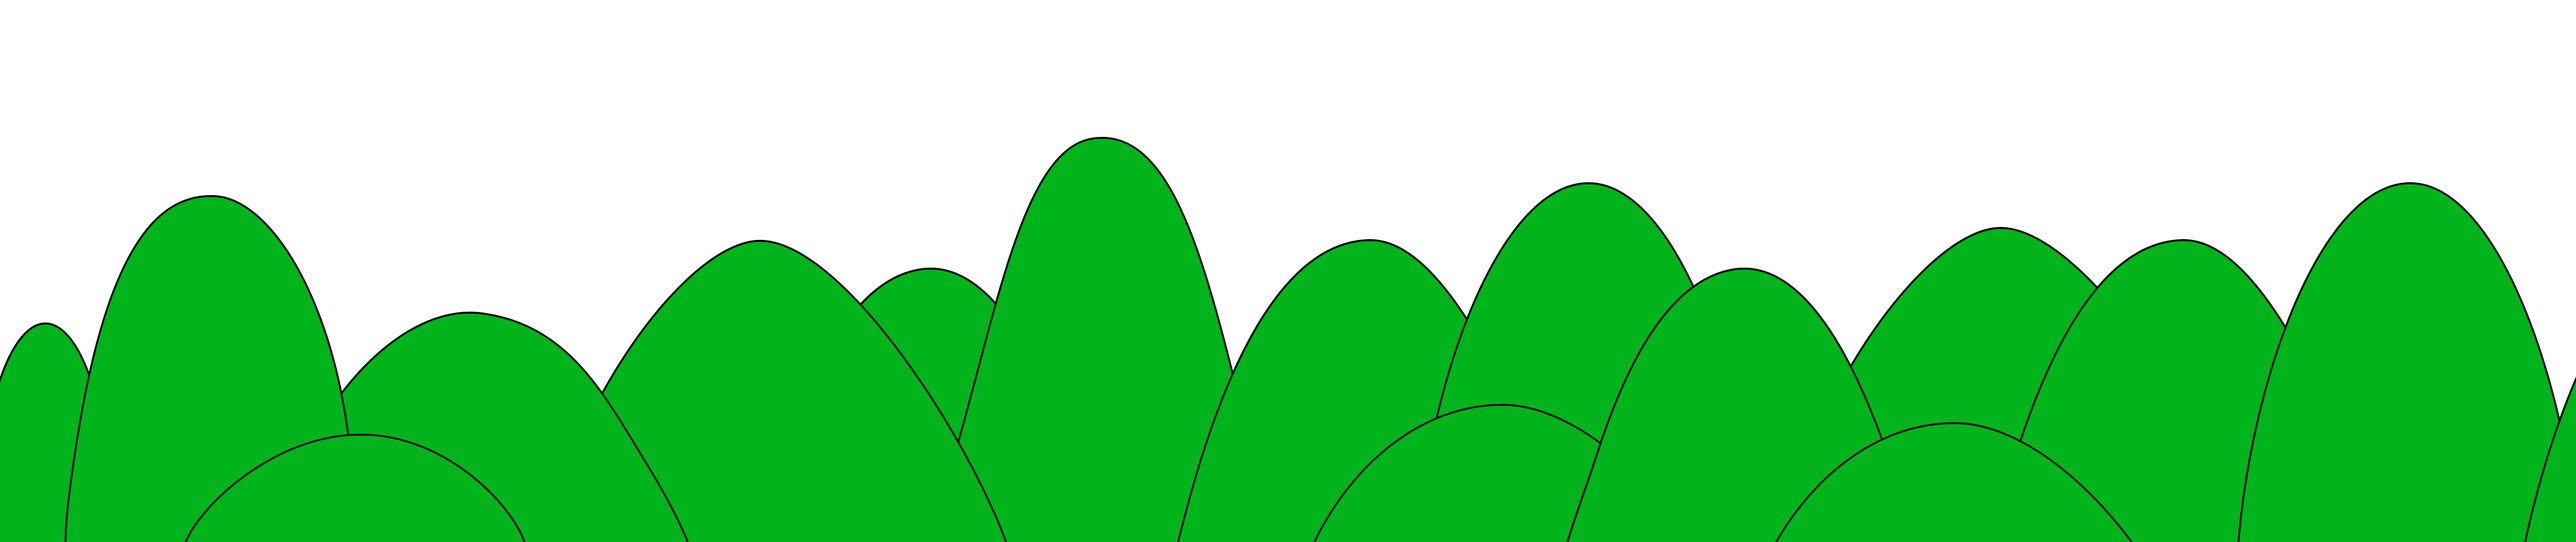
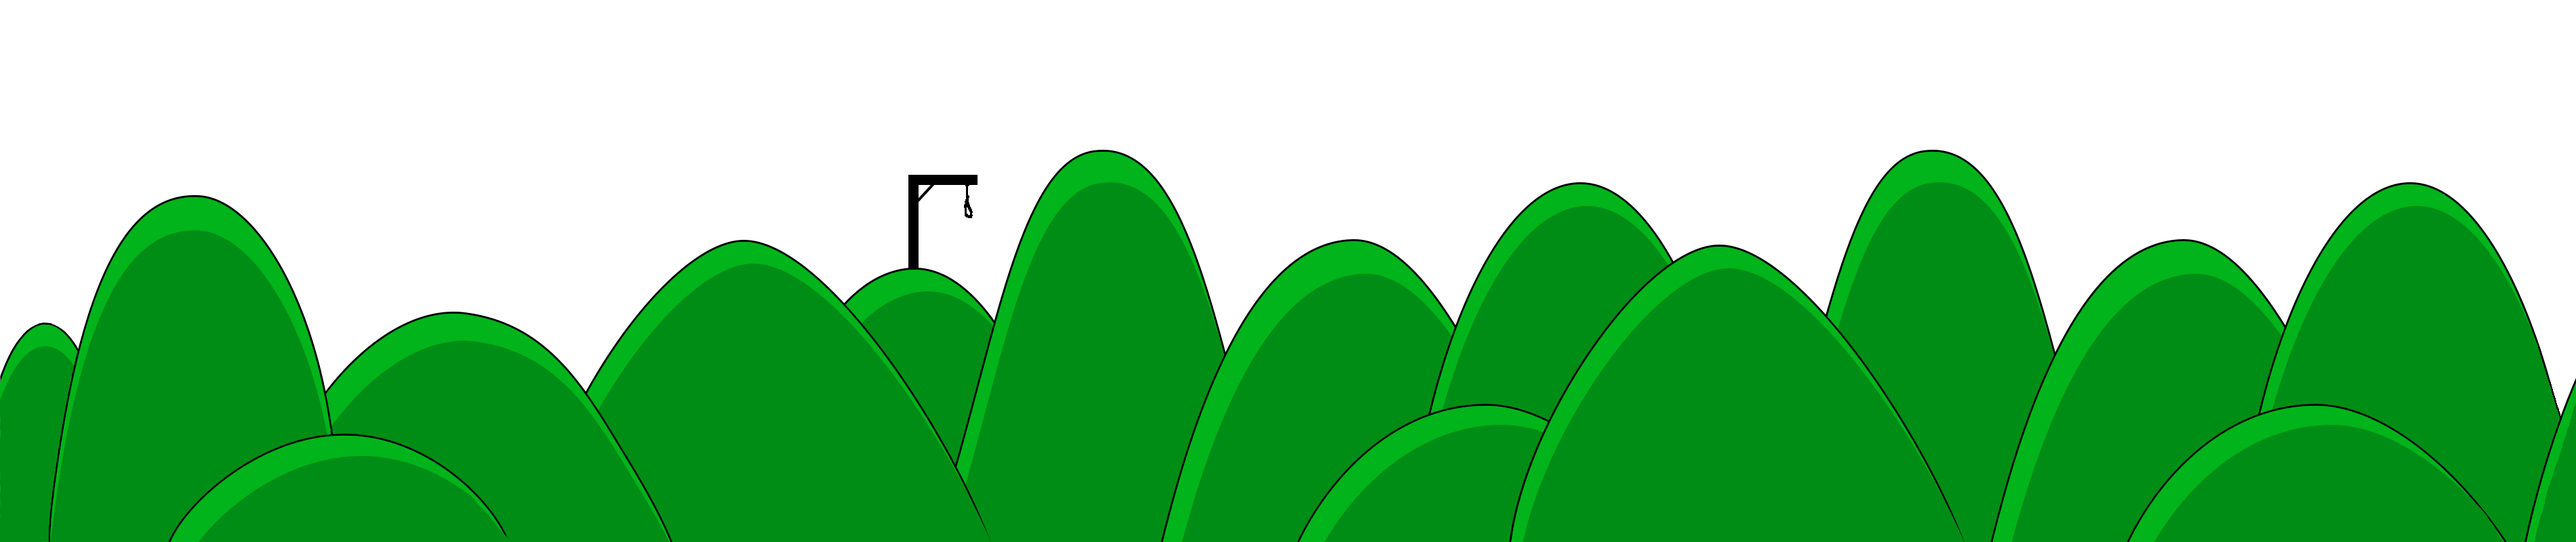
Nya texturer och färger
Vi har testat lite nya texturer och färger, de är uppe för diskussion så
säg vad ni tycker. /Fabian, André, Martin S.

diff --git a/Hänga Gubbe/Hänga Gubbe/TextureManager.cs b/Hänga Gubbe/Hänga Gubbe/TextureManager.cs
@@ -12,7 +12,7 @@ namespace Hänga_Gubbe
     class TextureManager
     {
         public static Texture2D buttonTex, hillTex, cloudTex, buttonTex4x1;
-        public static Texture2D hangmanTex, titelTex;
+        public static Texture2D hangmanTex, titelTex, keyBackGround;
         public static SpriteFont font, fontStor;
         public TextureManager(ContentManager Content)
         {
@@ -20,8 +20,9 @@ namespace Hänga_Gubbe
             buttonTex4x1 = Content.Load<Texture2D>("Button4x1");
             hangmanTex = Content.Load<Texture2D>("hangman");
             hillTex = Content.Load<Texture2D>("Kullar");
-            cloudTex = Content.Load<Texture2D>("Moln");
+            cloudTex = Content.Load<Texture2D>("MolnV3");
             titelTex = Content.Load<Texture2D>("TitelTest2");
+            keyBackGround = Content.Load<Texture2D>("Bakgrund2");
 
             font = Content.Load<SpriteFont>("sffontbmp36");
             fontStor = Content.Load<SpriteFont>("sffontbmpStor");

diff --git a/Hänga Gubbe/Hänga Gubbe/Game1.cs b/Hänga Gubbe/Hänga Gubbe/Game1.cs
@@ -126,7 +126,7 @@ namespace Hänga_Gubbe
             var vHeight = 1080;
             var scale = Matrix.CreateScale((float)GraphicsDevice.Viewport.Width / vWidth, (float)GraphicsDevice.Viewport.Height / vHeight, 1f);
             //Matrix.CreateScale((float)GraphicsDevice.Viewport.Width / vWidth, (float)GraphicsDevice.Viewport.Height / vHeight, 1f)
-            GraphicsDevice.Clear(Color.CornflowerBlue);
+            GraphicsDevice.Clear(Color.LightBlue);
             spriteBatch.Begin(SpriteSortMode.Immediate, null, null, null, null, null, scale);
             layerManager.Draw(spriteBatch);
             //spriteBatch.Draw(tex, Vector2.Zero, Color.White);

diff --git a/Hänga Gubbe/Hänga Gubbe/WordManager.cs b/Hänga Gubbe/Hänga Gubbe/WordManager.cs
@@ -293,7 +293,7 @@ namespace Hänga_Gubbe
                     spriteBatch.DrawString(TextureManager.font, strings[wordint], new Vector2(500, 200), Color.Black);
                 }
 
-                spriteBatch.DrawString(TextureManager.fontStor, GetOutputString(), new Vector2(500, 500), Color.White);
+                spriteBatch.DrawString(TextureManager.fontStor, GetOutputString(), new Vector2(500, 500), Color.DarkSlateGray);
                 spriteBatch.DrawString(TextureManager.font, "Errors: " + errors, new Vector2(20, 50), Color.Black);
                 touchKeyboard.Draw(spriteBatch);
                 theHangman.Draw(spriteBatch);

diff --git a/Hänga Gubbe/Hänga Gubbe/Button.cs b/Hänga Gubbe/Hänga Gubbe/Button.cs
@@ -38,7 +38,7 @@ namespace Hänga_Gubbe
         {
             if (isClicked == false)
             {
-                spriteBatch.Draw(tex, new Vector2(buttonRec().X, buttonRec().Y), Color.White);
+                spriteBatch.Draw(tex, new Vector2(buttonRec().X, buttonRec().Y), Color.Honeydew);
                 spriteBatch.DrawString(TextureManager.font, buttonText, new Vector2(buttonRec().X + (tex.Width / 2), buttonRec().Y + (tex.Height / 2)), Color.DarkSlateGray, 0, textLength / 2, 1, SpriteEffects.None, 1);
             }
         }

diff --git a/Hänga Gubbe/Hänga Gubbe/LayerManager.cs b/Hänga Gubbe/Hänga Gubbe/LayerManager.cs
@@ -14,7 +14,7 @@ namespace Hänga_Gubbe
 
         public LayerManager()
         {
-            this.backgroundLayer1 = new Layer(new Vector2(0, 500), 0.3f, TextureManager.hillTex);
+            this.backgroundLayer1 = new Layer(new Vector2(0, 410), 0f, TextureManager.hillTex);
             layerList.Add(backgroundLayer1);
             this.backgroundLayer2 = new Layer(new Vector2(0, 0), 0.1f, TextureManager.cloudTex);
             layerList.Add(backgroundLayer2);

diff --git a/Hänga Gubbe/Hänga Gubbe/TouchKeyboard.cs b/Hänga Gubbe/Hänga Gubbe/TouchKeyboard.cs
@@ -76,6 +76,7 @@ namespace Hänga_Gubbe
 
         public void Draw(SpriteBatch spriteBatch)
         {
+            spriteBatch.Draw(TextureManager.keyBackGround, new Vector2(1110, 260), Color.Gray * 0.3f);
             foreach (Button b in buttonArray)
             {
                 if (b != null)
